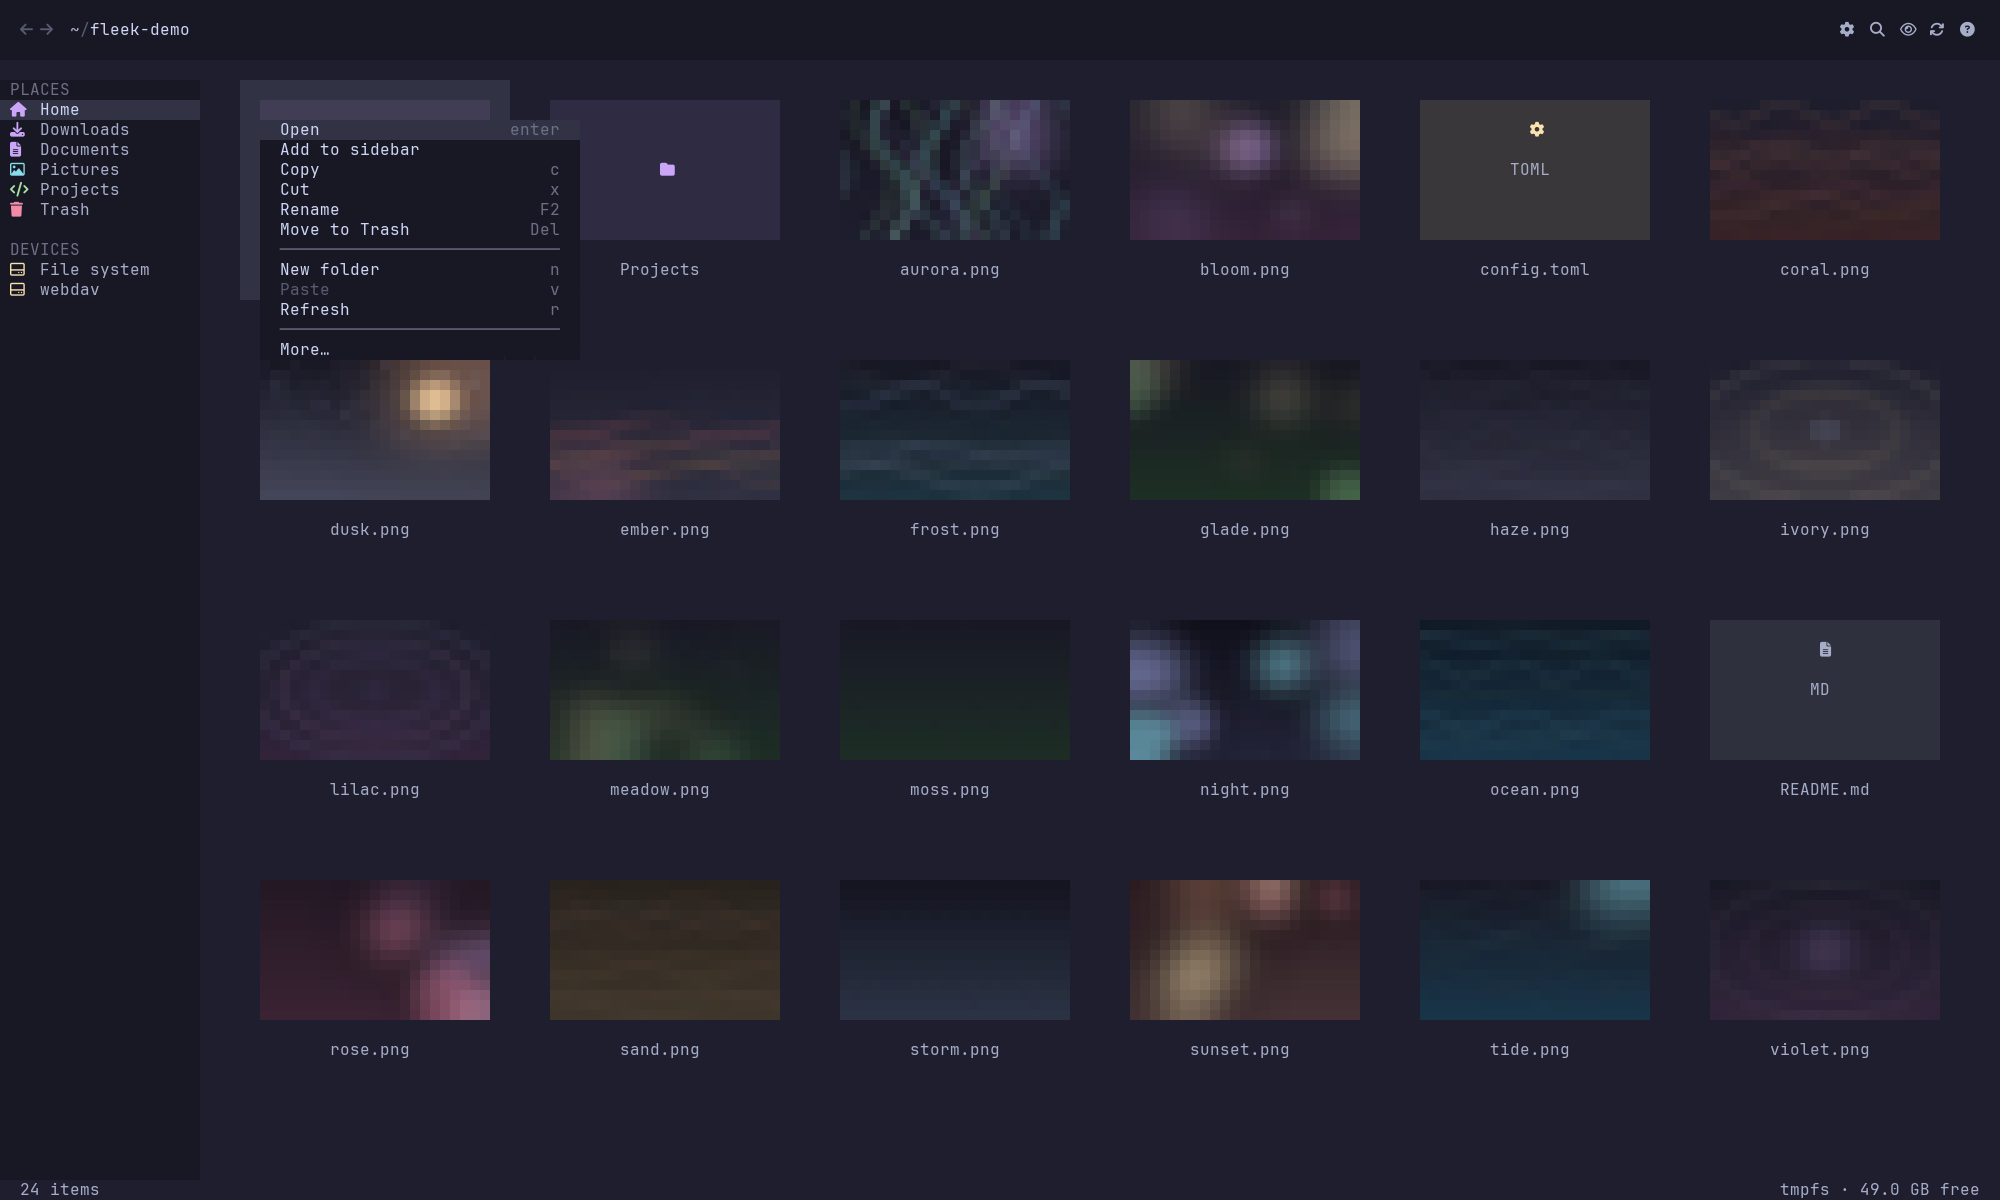
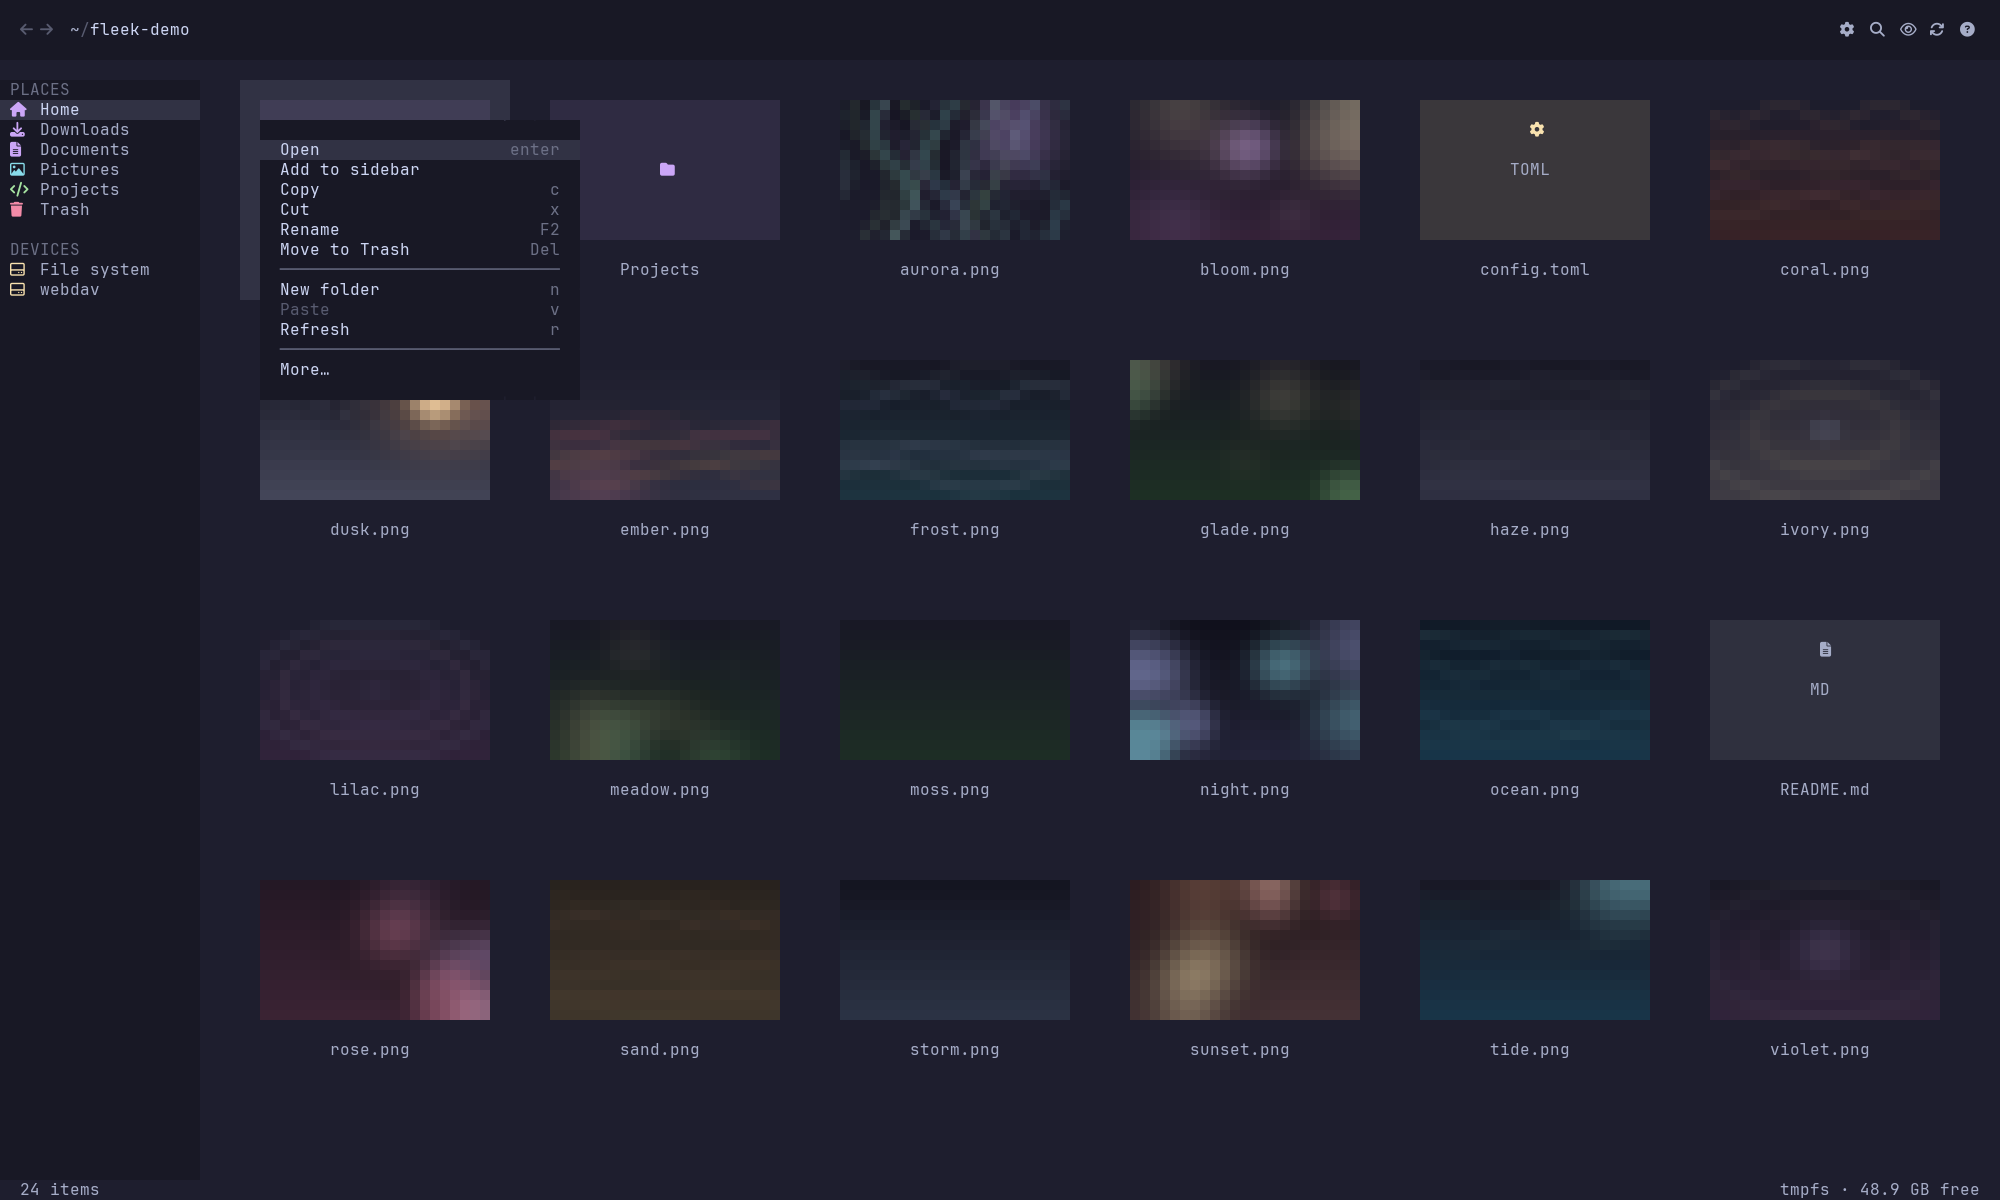
Add vertical padding to the context menu

diff --git a/actions.go b/actions.go
@@ -498,7 +498,7 @@ func (m *model) handleMenuClick(mouse tea.Mouse) (tea.Model, tea.Cmd) {
 		return m, nil
 	}
 	width := m.menuWidth()
-	height := len(m.menu.items)
+	height := len(m.menu.items) + 2
 	x := m.menu.x
 	if x+width > m.width-1 {
 		x = m.width - width - 1
@@ -963,7 +963,7 @@ func (m *model) drawMenu(canvas *Canvas) {
 		return
 	}
 	width := m.menuWidth()
-	height := len(m.menu.items)
+	height := len(m.menu.items) + 2
 	x := m.menu.x
 	if x+width > m.width-1 {
 		x = m.width - width - 1
@@ -982,7 +982,7 @@ func (m *model) drawMenu(canvas *Canvas) {
 	m.menu.hits = m.menu.hits[:0]
 	canvas.fillRect(x, y, width, height, colSidebar)
 	for index, item := range m.menu.items {
-		row := y + index
+		row := y + 1 + index
 		if item.separator {
 			canvas.text(x+2, row, width-4, strings.Repeat("─", width-4), colDimmer, colSidebar)
 			continue

diff --git a/main.go b/main.go
@@ -9,7 +9,7 @@ import (
 	"github.com/charmbracelet/colorprofile"
 )
 
-const version = "0.7.2"
+const version = "0.7.3"
 
 func main() {
 	flag.Usage = func() {
